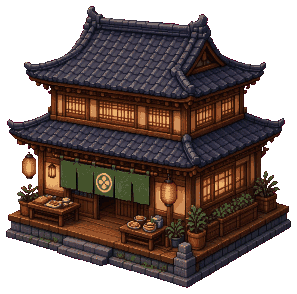
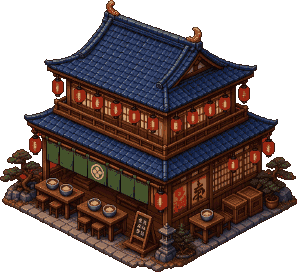
Round 5d: fix waiting-guest crash, diagnostics log, isometric redraw of teishoku/izakaya/gift/cafe

diff --git a/assets/lights.js b/assets/lights.js
@@ -1,2 +1,2 @@
 // tools/lights.py 생성: 스프라이트별 광원 점 (마스크는 assets/lights/*.png)
-window.LIGHTS={"gift_lv1": [[0.184, 0.29, 19.0], [0.258, 0.602, 8.0], [0.434, 0.611, 7.0], [0.648, 0.879, 7.0], [0.214, 0.432, 6.0], [0.42, 0.423, 5.0]], "gift_lv1_b": [[0.543, 0.547, 709.0], [0.197, 0.489, 570.0]], "gift_lv2": [[0.22, 0.538, 131.6], [0.677, 0.468, 115.4], [0.533, 0.762, 105.7], [0.445, 0.748, 83.3], [0.718, 0.765, 81.9], [0.247, 0.619, 43.4], [0.142, 0.227, 38.6]], "gift_lv3": [[0.141, 0.262, 147.0], [0.72, 0.769, 68.6], [0.14, 0.139, 22.8], [0.663, 0.482, 21.7], [0.412, 0.472, 19.6], [0.191, 0.424, 9.0]], "gift_lv4": [[0.127, 0.428, 1076.0], [0.128, 0.3, 7.0], [0.395, 0.075, 5.0], [0.081, 0.517, 5.0], [0.888, 0.637, 5.0]], "hinoki_lv1": [[0.154, 0.429, 40.6], [0.333, 0.497, 39.2], [0.518, 0.075, 24.5], [0.068, 0.261, 14.7], [0.539, 0.499, 14.0], [0.68, 0.149, 9.8], [0.222, 0.602, 9.1]], "hinoki_lv1_b": [[0.875, 0.443, 67.9], [0.681, 0.358, 10.5], [0.357, 0.698, 3.5], [0.542, 0.712, 3.5]], "hinoki_lv2": [[0.458, 0.389, 14.7], [0.547, 0.032, 11.9], [0.684, 0.089, 5.6], [0.14, 0.234, 5.6], [0.275, 0.623, 4.9], [0.58, 0.369, 4.2], [0.268, 0.455, 4.2]], "hinoki_lv2_b": [[0.552, 0.029, 5.6], [0.402, 0.384, 5.6]], "hinoki_lv3": [[0.402, 0.479, 18.9], [0.609, 0.606, 12.6], [0.794, 0.388, 9.1], [0.274, 0.46, 8.4], [0.389, 0.253, 6.3], [0.79, 0.503, 5.6], [0.497, 0.272, 4.9]], "hinoki_lv3_b": [[0.166, 0.424, 5.6], [0.555, 0.476, 4.2]], "izakaya_lv1": [[0.205, 0.628, 133.7], [0.429, 0.328, 64.4], [0.279, 0.326, 60.9], [0.577, 0.328, 60.2], [0.703, 0.677, 23.8], [0.103, 0.595, 9.8], [0.62, 0.771, 9.8]], "izakaya_lv1_b": [[0.457, 0.313, 177.8], [0.607, 0.312, 126.0], [0.223, 0.312, 60.2], [0.184, 0.625, 39.9]], "izakaya_lv2": [[0.188, 0.587, 156.8], [0.291, 0.319, 59.6], [0.628, 0.354, 58.9], [0.458, 0.337, 52.5], [0.428, 0.822, 27.3], [0.691, 0.672, 22.4], [0.56, 0.79, 21.7]], "izakaya_lv3": [[0.199, 0.288, 1453.2], [0.201, 0.508, 109.9], [0.547, 0.556, 109.1], [0.105, 0.491, 102.8], [0.619, 0.577, 102.0], [0.708, 0.582, 101.8], [0.826, 0.517, 97.4]], "izakaya_lv3_b": [[0.351, 0.59, 251.0], [0.275, 0.571, 174.0], [0.144, 0.535, 21.0], [0.459, 0.665, 19.0], [0.529, 0.694, 9.0], [0.18, 0.676, 5.0]], "izakaya_lv4": [[0.185, 0.623, 129.0], [0.273, 0.321, 118.0], [0.586, 0.67, 109.0], [0.593, 0.32, 44.9], [0.79, 0.29, 36.0], [0.857, 0.268, 34.7], [0.526, 0.608, 30.0]], "izakaya_lv4_b": [[0.327, 0.648, 448.0], [0.512, 0.38, 289.0], [0.518, 0.711, 261.0], [0.3, 0.324, 210.0], [0.161, 0.589, 136.0], [0.627, 0.375, 24.6], [0.236, 0.293, 20.3]], "izakaya_lv5": [[0.45, 0.328, 146.2], [0.573, 0.338, 138.3], [0.573, 0.632, 122.9], [0.403, 0.61, 118.7], [0.245, 0.591, 115.6], [0.235, 0.304, 115.2], [0.326, 0.599, 113.4]], "izakaya_lv5_b": [[0.44, 0.679, 937.0], [0.16, 0.631, 703.0], [0.489, 0.357, 644.0], [0.574, 0.703, 563.0], [0.23, 0.326, 485.0], [0.593, 0.369, 261.0], [0.782, 0.664, 14.0]], "ramen_lv5": [[0.471, 0.747, 107.0], [0.088, 0.596, 106.0], [0.582, 0.731, 92.0], [0.885, 0.597, 85.0], [0.656, 0.696, 77.0], [0.495, 0.472, 76.0], [0.23, 0.385, 74.0]], "room_lv1": [[0.484, 0.312, 49.7], [0.116, 0.596, 48.3], [0.529, 0.699, 48.3], [0.28, 0.568, 42.7], [0.342, 0.276, 37.1], [0.605, 0.616, 25.2], [0.289, 0.842, 13.3]], "room_lv1_b": [[0.208, 0.54, 13.3], [0.506, 0.665, 12.6], [0.681, 0.612, 7.7], [0.38, 0.246, 7.0], [0.168, 0.466, 7.0], [0.45, 0.607, 7.0]], "room_lv2": [[0.546, 0.638, 18.2], [0.549, 0.748, 18.2], [0.278, 0.539, 16.1], [0.633, 0.632, 16.1], [0.092, 0.572, 14.7], [0.396, 0.556, 10.5], [0.796, 0.565, 9.1]], "room_lv2_b": [[0.534, 0.671, 31.5], [0.782, 0.591, 7.7], [0.254, 0.557, 6.3], [0.183, 0.496, 5.6], [0.454, 0.636, 4.9], [0.69, 0.613, 3.5]], "room_lv3": [[0.53, 0.637, 59.5], [0.124, 0.595, 35.7], [0.611, 0.648, 28.7], [0.54, 0.751, 23.1], [0.278, 0.562, 18.2], [0.791, 0.575, 9.8], [0.4, 0.58, 7.0]], "room_lv3_b": [[0.489, 0.707, 85.4], [0.163, 0.528, 44.1], [0.219, 0.564, 42.7], [0.325, 0.626, 12.6], [0.798, 0.586, 10.5], [0.407, 0.646, 9.1]], "room_lv4": [[0.541, 0.734, 77.7], [0.49, 0.465, 29.4], [0.081, 0.635, 18.9], [0.55, 0.825, 16.8], [0.412, 0.253, 11.9], [0.288, 0.383, 11.9], [0.411, 0.433, 11.9]], "room_lv4_b": [[0.529, 0.757, 59.5], [0.536, 0.504, 35.0], [0.251, 0.368, 14.7], [0.151, 0.567, 11.2], [0.413, 0.254, 9.8], [0.307, 0.403, 8.4], [0.683, 0.685, 6.3]], "room_lv5": [[0.514, 0.738, 62.3], [0.468, 0.477, 24.5], [0.163, 0.749, 21.0], [0.351, 0.43, 11.2], [0.496, 0.916, 11.2], [0.656, 0.687, 9.1], [0.781, 0.395, 8.4]], "room_lv5_b": [[0.502, 0.499, 30.8], [0.451, 0.472, 14.7], [0.179, 0.574, 9.1], [0.155, 0.768, 9.1], [0.429, 0.703, 7.7], [0.481, 0.746, 7.0], [0.297, 0.399, 6.3]], "sauna_lv1": [[0.852, 0.658, 63.7], [0.481, 0.559, 40.6], [0.196, 0.461, 11.2], [0.778, 0.766, 10.5], [0.162, 0.639, 8.4], [0.191, 0.849, 4.9], [0.093, 0.697, 3.5]], "sauna_lv1_b": [[0.501, 0.633, 28.7], [0.098, 0.65, 11.9]], "sauna_lv2": [[0.874, 0.69, 98.7], [0.699, 0.04, 74.9], [0.482, 0.591, 58.1], [0.181, 0.495, 18.9], [0.067, 0.723, 17.5], [0.145, 0.671, 11.9], [0.346, 0.792, 5.6]], "sauna_lv2_b": [[0.281, 0.046, 86.8], [0.11, 0.705, 34.3]], "sauna_lv3": [[0.175, 0.685, 48.3], [0.716, 0.554, 26.6], [0.227, 0.453, 23.1], [0.606, 0.625, 5.6], [0.275, 0.646, 5.6], [0.68, 0.067, 4.9], [0.467, 0.757, 4.2]], "sauna_lv4": [[0.175, 0.683, 47.6], [0.175, 0.436, 25.2], [0.76, 0.543, 25.2], [0.79, 0.496, 14.0], [0.59, 0.595, 8.4], [0.077, 0.427, 7.0], [0.46, 0.749, 5.6]], "sauna_lv5": [[0.308, 0.499, 28.7], [0.706, 0.548, 28.7], [0.553, 0.605, 8.4], [0.12, 0.428, 7.0], [0.21, 0.686, 7.0], [0.262, 0.45, 4.2]], "teishoku_lv1": [[0.188, 0.544, 101.5], [0.8, 0.584, 67.9], [0.473, 0.463, 18.9], [0.893, 0.468, 13.3], [0.72, 0.712, 12.6], [0.32, 0.733, 9.8], [0.176, 0.694, 9.1]], "teishoku_lv1_b": [[0.279, 0.465, 19.6], [0.062, 0.492, 7.0]], "teishoku_lv5": [[0.174, 0.605, 106.1], [0.601, 0.677, 100.0], [0.094, 0.564, 89.7], [0.467, 0.398, 26.0], [0.532, 0.65, 22.7], [0.383, 0.381, 22.1], [0.129, 0.68, 18.0]], "teishoku_lv5_b": [[0.356, 0.638, 537.0], [0.565, 0.685, 431.0], [0.172, 0.595, 401.0], [0.557, 0.414, 353.0], [0.201, 0.352, 101.0], [0.345, 0.377, 84.0], [0.733, 0.372, 15.0]], "yuzu_lv3": [[0.612, 0.642, 78.0], [0.721, 0.545, 61.0], [0.774, 0.71, 55.0], [0.228, 0.555, 53.0], [0.301, 0.575, 35.0], [0.405, 0.66, 20.0], [0.569, 0.474, 17.0]], "yuzu_lv3_b": [[0.209, 0.563, 46.0], [0.312, 0.653, 42.0]], "yuzu_lv4": [[0.509, 0.525, 18.9], [0.127, 0.401, 17.5], [0.3, 0.554, 17.5], [0.636, 0.486, 16.8], [0.231, 0.528, 16.1], [0.427, 0.808, 8.4], [0.429, 0.645, 6.3]], "yuzu_lv4_b": [[0.103, 0.401, 16.8], [0.579, 0.534, 14.7], [0.867, 0.42, 14.0]], "yuzu_lv5": [[0.577, 0.73, 93.1], [0.275, 0.356, 89.6], [0.185, 0.628, 76.3], [0.571, 0.453, 74.2], [0.46, 0.41, 66.5], [0.688, 0.686, 41.3], [0.525, 0.769, 28.0]], "yuzu_lv5_b": [[0.557, 0.764, 191.8], [0.261, 0.354, 137.2], [0.569, 0.455, 136.5], [0.509, 0.428, 87.5], [0.17, 0.624, 76.3], [0.487, 0.713, 18.9], [0.726, 0.406, 17.5]]};
+window.LIGHTS={"gift_lv1": [[0.092, 0.39, 794.0], [0.139, 0.516, 7.0], [0.203, 0.609, 7.0], [0.044, 0.491, 5.0]], "gift_lv1_b": [[0.543, 0.547, 709.0], [0.197, 0.489, 570.0]], "gift_lv2": [[0.22, 0.538, 131.6], [0.677, 0.468, 115.4], [0.533, 0.762, 105.7], [0.445, 0.748, 83.3], [0.718, 0.765, 81.9], [0.247, 0.619, 43.4], [0.142, 0.227, 38.6]], "gift_lv3": [[0.141, 0.262, 147.0], [0.72, 0.769, 68.6], [0.14, 0.139, 22.8], [0.663, 0.482, 21.7], [0.412, 0.472, 19.6], [0.191, 0.424, 9.0]], "gift_lv4": [[0.127, 0.428, 1076.0], [0.128, 0.3, 7.0], [0.395, 0.075, 5.0], [0.081, 0.517, 5.0], [0.888, 0.637, 5.0]], "hinoki_lv1": [[0.154, 0.429, 40.6], [0.333, 0.497, 39.2], [0.518, 0.075, 24.5], [0.068, 0.261, 14.7], [0.539, 0.499, 14.0], [0.68, 0.149, 9.8], [0.222, 0.602, 9.1]], "hinoki_lv1_b": [[0.875, 0.443, 67.9], [0.681, 0.358, 10.5], [0.357, 0.698, 3.5], [0.542, 0.712, 3.5]], "hinoki_lv2": [[0.458, 0.389, 14.7], [0.547, 0.032, 11.9], [0.684, 0.089, 5.6], [0.14, 0.234, 5.6], [0.275, 0.623, 4.9], [0.58, 0.369, 4.2], [0.268, 0.455, 4.2]], "hinoki_lv2_b": [[0.552, 0.029, 5.6], [0.402, 0.384, 5.6]], "hinoki_lv3": [[0.402, 0.479, 18.9], [0.609, 0.606, 12.6], [0.794, 0.388, 9.1], [0.274, 0.46, 8.4], [0.389, 0.253, 6.3], [0.79, 0.503, 5.6], [0.497, 0.272, 4.9]], "hinoki_lv3_b": [[0.166, 0.424, 5.6], [0.555, 0.476, 4.2]], "izakaya_lv1": [[0.221, 0.548, 178.2], [0.431, 0.526, 172.6], [0.52, 0.558, 168.5], [0.339, 0.493, 162.1], [0.16, 0.429, 161.2], [0.545, 0.676, 109.2], [0.384, 0.616, 78.0]], "izakaya_lv1_b": [[0.457, 0.313, 177.8], [0.607, 0.312, 126.0], [0.223, 0.312, 60.2], [0.184, 0.625, 39.9]], "izakaya_lv2": [[0.4, 0.645, 168.0], [0.507, 0.603, 161.0], [0.233, 0.505, 160.0], [0.371, 0.552, 158.0], [0.704, 0.639, 117.0], [0.294, 0.603, 94.0], [0.56, 0.691, 62.0]], "izakaya_lv3": [[0.199, 0.288, 1453.2], [0.201, 0.508, 109.9], [0.547, 0.556, 109.1], [0.105, 0.491, 102.8], [0.619, 0.577, 102.0], [0.708, 0.582, 101.8], [0.826, 0.517, 97.4]], "izakaya_lv3_b": [[0.351, 0.59, 251.0], [0.275, 0.571, 174.0], [0.144, 0.535, 21.0], [0.459, 0.665, 19.0], [0.529, 0.694, 9.0], [0.18, 0.676, 5.0]], "izakaya_lv4": [[0.185, 0.623, 129.0], [0.273, 0.321, 118.0], [0.586, 0.67, 109.0], [0.593, 0.32, 44.9], [0.79, 0.29, 36.0], [0.857, 0.268, 34.7], [0.526, 0.608, 30.0]], "izakaya_lv4_b": [[0.327, 0.648, 448.0], [0.512, 0.38, 289.0], [0.518, 0.711, 261.0], [0.3, 0.324, 210.0], [0.161, 0.589, 136.0], [0.627, 0.375, 24.6], [0.236, 0.293, 20.3]], "izakaya_lv5": [[0.45, 0.328, 146.2], [0.573, 0.338, 138.3], [0.573, 0.632, 122.9], [0.403, 0.61, 118.7], [0.245, 0.591, 115.6], [0.235, 0.304, 115.2], [0.326, 0.599, 113.4]], "izakaya_lv5_b": [[0.44, 0.679, 937.0], [0.16, 0.631, 703.0], [0.489, 0.357, 644.0], [0.574, 0.703, 563.0], [0.23, 0.326, 485.0], [0.593, 0.369, 261.0], [0.782, 0.664, 14.0]], "ramen_lv5": [[0.471, 0.747, 107.0], [0.088, 0.596, 106.0], [0.582, 0.731, 92.0], [0.885, 0.597, 85.0], [0.656, 0.696, 77.0], [0.495, 0.472, 76.0], [0.23, 0.385, 74.0]], "room_lv1": [[0.484, 0.312, 49.7], [0.116, 0.596, 48.3], [0.529, 0.699, 48.3], [0.28, 0.568, 42.7], [0.342, 0.276, 37.1], [0.605, 0.616, 25.2], [0.289, 0.842, 13.3]], "room_lv1_b": [[0.208, 0.54, 13.3], [0.506, 0.665, 12.6], [0.681, 0.612, 7.7], [0.38, 0.246, 7.0], [0.168, 0.466, 7.0], [0.45, 0.607, 7.0]], "room_lv2": [[0.546, 0.638, 18.2], [0.549, 0.748, 18.2], [0.278, 0.539, 16.1], [0.633, 0.632, 16.1], [0.092, 0.572, 14.7], [0.396, 0.556, 10.5], [0.796, 0.565, 9.1]], "room_lv2_b": [[0.534, 0.671, 31.5], [0.782, 0.591, 7.7], [0.254, 0.557, 6.3], [0.183, 0.496, 5.6], [0.454, 0.636, 4.9], [0.69, 0.613, 3.5]], "room_lv3": [[0.53, 0.637, 59.5], [0.124, 0.595, 35.7], [0.611, 0.648, 28.7], [0.54, 0.751, 23.1], [0.278, 0.562, 18.2], [0.791, 0.575, 9.8], [0.4, 0.58, 7.0]], "room_lv3_b": [[0.489, 0.707, 85.4], [0.163, 0.528, 44.1], [0.219, 0.564, 42.7], [0.325, 0.626, 12.6], [0.798, 0.586, 10.5], [0.407, 0.646, 9.1]], "room_lv4": [[0.541, 0.734, 77.7], [0.49, 0.465, 29.4], [0.081, 0.635, 18.9], [0.55, 0.825, 16.8], [0.412, 0.253, 11.9], [0.288, 0.383, 11.9], [0.411, 0.433, 11.9]], "room_lv4_b": [[0.529, 0.757, 59.5], [0.536, 0.504, 35.0], [0.251, 0.368, 14.7], [0.151, 0.567, 11.2], [0.413, 0.254, 9.8], [0.307, 0.403, 8.4], [0.683, 0.685, 6.3]], "room_lv5": [[0.514, 0.738, 62.3], [0.468, 0.477, 24.5], [0.163, 0.749, 21.0], [0.351, 0.43, 11.2], [0.496, 0.916, 11.2], [0.656, 0.687, 9.1], [0.781, 0.395, 8.4]], "room_lv5_b": [[0.502, 0.499, 30.8], [0.451, 0.472, 14.7], [0.179, 0.574, 9.1], [0.155, 0.768, 9.1], [0.429, 0.703, 7.7], [0.481, 0.746, 7.0], [0.297, 0.399, 6.3]], "sauna_lv1": [[0.852, 0.658, 63.7], [0.481, 0.559, 40.6], [0.196, 0.461, 11.2], [0.778, 0.766, 10.5], [0.162, 0.639, 8.4], [0.191, 0.849, 4.9], [0.093, 0.697, 3.5]], "sauna_lv1_b": [[0.501, 0.633, 28.7], [0.098, 0.65, 11.9]], "sauna_lv2": [[0.874, 0.69, 98.7], [0.699, 0.04, 74.9], [0.482, 0.591, 58.1], [0.181, 0.495, 18.9], [0.067, 0.723, 17.5], [0.145, 0.671, 11.9], [0.346, 0.792, 5.6]], "sauna_lv2_b": [[0.281, 0.046, 86.8], [0.11, 0.705, 34.3]], "sauna_lv3": [[0.175, 0.685, 48.3], [0.716, 0.554, 26.6], [0.227, 0.453, 23.1], [0.606, 0.625, 5.6], [0.275, 0.646, 5.6], [0.68, 0.067, 4.9], [0.467, 0.757, 4.2]], "sauna_lv4": [[0.175, 0.683, 47.6], [0.175, 0.436, 25.2], [0.76, 0.543, 25.2], [0.79, 0.496, 14.0], [0.59, 0.595, 8.4], [0.077, 0.427, 7.0], [0.46, 0.749, 5.6]], "sauna_lv5": [[0.308, 0.499, 28.7], [0.706, 0.548, 28.7], [0.553, 0.605, 8.4], [0.12, 0.428, 7.0], [0.21, 0.686, 7.0], [0.262, 0.45, 4.2]], "teishoku_lv1": [[0.606, 0.615, 539.0], [0.887, 0.514, 42.0], [0.545, 0.672, 32.0], [0.256, 0.701, 32.0], [0.354, 0.737, 25.0], [0.609, 0.946, 21.0], [0.723, 0.758, 14.0]], "teishoku_lv1_b": [[0.279, 0.465, 19.6], [0.062, 0.492, 7.0]], "teishoku_lv2": [[0.578, 0.57, 470.0], [0.48, 0.207, 207.0], [0.888, 0.472, 44.0], [0.826, 0.656, 13.0], [0.21, 0.571, 12.0], [0.284, 0.609, 11.0], [0.436, 0.678, 9.0]], "teishoku_lv4": [[0.506, 0.712, 209.0], [0.098, 0.532, 187.0], [0.903, 0.529, 176.0], [0.191, 0.305, 158.0], [0.574, 0.68, 155.0], [0.818, 0.31, 149.0], [0.605, 0.398, 144.0]], "teishoku_lv5": [[0.662, 0.121, 28.0], [0.279, 0.806, 25.0], [0.136, 0.682, 24.0], [0.589, 0.728, 20.0], [0.244, 0.345, 19.0], [0.51, 0.726, 18.0], [0.558, 0.487, 17.0]], "teishoku_lv5_b": [[0.356, 0.638, 537.0], [0.565, 0.685, 431.0], [0.172, 0.595, 401.0], [0.557, 0.414, 353.0], [0.201, 0.352, 101.0], [0.345, 0.377, 84.0], [0.733, 0.372, 15.0]], "yuzu_lv3": [[0.612, 0.642, 78.0], [0.721, 0.545, 61.0], [0.774, 0.71, 55.0], [0.228, 0.555, 53.0], [0.301, 0.575, 35.0], [0.405, 0.66, 20.0], [0.569, 0.474, 17.0]], "yuzu_lv3_b": [[0.209, 0.563, 46.0], [0.312, 0.653, 42.0]], "yuzu_lv4": [[0.509, 0.525, 18.9], [0.127, 0.401, 17.5], [0.3, 0.554, 17.5], [0.636, 0.486, 16.8], [0.231, 0.528, 16.1], [0.427, 0.808, 8.4], [0.429, 0.645, 6.3]], "yuzu_lv4_b": [[0.103, 0.401, 16.8], [0.579, 0.534, 14.7], [0.867, 0.42, 14.0]], "yuzu_lv5": [[0.577, 0.73, 93.1], [0.275, 0.356, 89.6], [0.185, 0.628, 76.3], [0.571, 0.453, 74.2], [0.46, 0.41, 66.5], [0.688, 0.686, 41.3], [0.525, 0.769, 28.0]], "yuzu_lv5_b": [[0.557, 0.764, 191.8], [0.261, 0.354, 137.2], [0.569, 0.455, 136.5], [0.509, 0.428, 87.5], [0.17, 0.624, 76.3], [0.487, 0.713, 18.9], [0.726, 0.406, 17.5]]};

diff --git a/game.js b/game.js
@@ -298,7 +298,7 @@ function decide(g){
  const o=pickTarget(g);if(!o){if(NEEDK.every(k=>g.need[k]<35)||Math.random()<0.4){leave(g);return}
   for(let i=0;i<8;i++){const x=(Math.random()*N)|0,y=(Math.random()*N)|0;if(walkable(x,y)&&goTo(g,x,y))return}leave(g);return}
  const pp=pathToObj(g,o);if(pp)g.path=pp;if(!pp){if(!g.blocked)g.blocked=new Set();if(!g.blocked.size){think(g,'길이 막혔어요…');g.happy-=4}g.blocked.add(o);g.path=[];return}g.target=o;}
-function arrive(g){g.ax=g.x;g.ay=g.y;const o=g.target,d=DEF[o.k];g.target=null;o.users=o.users||0;
+function arrive(g){g.ax=g.x;g.ay=g.y;const o=g.target;if(!o||!DEF[o.k]){g.target=null;g.st='walk';if(_pb-->0)decide(g);return}const d=DEF[o.k];g.target=null;o.users=o.users||0;
  if(!S.objs.includes(o)){decide(g);return}
  const cap=capOf(o);if(o.users>=cap){if(!g.waited){g.waited=1;if(Math.random()<0.5)think(g,'자리가 날 때까지 기다릴게요');g.st='wait';g.t=5;g.target=o;return}g.waited=0;think(g,'자리가 없네…');g.happy-=3;(g.used=g.used||[]).push(o);return}
  const fair=fairPrice(o)*(0.8+g.happy/150);
@@ -352,7 +352,7 @@ function emit(dt){if(parts.length>(window.GFX_LOW?140:600))return;if(window.GFX_
  if(season()==3&&Math.random()<dt*6){const r=rng(Date.now()|0);parts.push({k:'snow',x:Math.random()*N,y:Math.random()*N,h:60,l:8,L:8,ph:Math.random()*6})}
 }
 function updParts(dt){for(const o of S.objs)if(o.sway)o.sway=Math.max(0,o.sway-dt*0.35);for(const p of parts){p.l-=dt;if(p.k=='spark'){p.h+=p.vh*dt;p.vh*=0.96;continue}if(p.k=='dust'){p.x+=p.vx*dt;p.y+=p.vy*dt;p.vx*=0.92;p.vy*=0.92;continue}if(p.k=='steam'){p.h+=dt*9;p.x+=(p.vx+(window.WIND||0)*0.12)*dt;p.y-=(window.WIND||0)*0.06*dt;p.s+=dt*2.5}else{if(p.h>0){p.h-=dt*(p.k=='snow'?6:8);p.ph+=dt*2;p.x+=Math.sin(p.ph)*dt*0.25+dt*0.12}else{p.h=0;p.l=Math.min(p.l,1.5)}}}
- parts=parts.filter(p=>p.l>0);floats.forEach(f=>f.l-=dt);floats=floats.filter(f=>f.l>0);bubbles.forEach(b=>b.l-=dt);bubbles=bubbles.filter(b=>b.l>0&&!b.g.dead&&!b.g.hide);
+ parts=parts.filter(p=>p.l>0);if(parts.length>900)parts.splice(0,parts.length-900);floats.forEach(f=>f.l-=dt);floats=floats.filter(f=>f.l>0);bubbles.forEach(b=>b.l-=dt);bubbles=bubbles.filter(b=>b.l>0&&!b.g.dead&&!b.g.hide);
  for(const k in anims){anims[k].t+=dt;if(anims[k].t>1.6)delete anims[k]}}
 // ===== 렌더 =====
 let ghost=null,hoverT=null,mode=null;
@@ -697,7 +697,7 @@ function checkReach(){const gi=gateInfo();const w=$('warn');if(!gi){w.style.disp
  while(q.length){const[x,y]=q.shift();for(const[dx,dy]of[[1,0],[-1,0],[0,1],[0,-1]]){const k=(x+dx)+','+(y+dy);if(seen.has(k)||!walkable(x+dx,y+dy))continue;seen.add(k);q.push([x+dx,y+dy])}}
  const bad=S.objs.filter(o=>DEF[o.k].price&&o!==moving).filter(o=>{const t=[];for(const[x,y]of tilesOf(o))for(const[dx,dy]of[[1,0],[-1,0],[0,1],[0,-1]])t.push((x+dx)+','+(y+dy));return !t.some(k=>seen.has(k))});
  if(bad.length){w.textContent='⚠ 대문에서 갈 수 없는 시설: '+[...new Set(bad.map(o=>DEF[o.k].n))].join(', ');w.style.display='block'}else w.style.display='none'}
-let _ferr=0,_pb=8;function frame(now){_pb=8;try{frame_(now)}catch(e){if(_ferr++<5)console.error('frame error',e)}requestAnimationFrame(frame)}
+let _ferr=0,_pb=8;function frame(now){_pb=8;try{frame_(now)}catch(e){if(_ferr++<5)console.error('frame error',e);if(window.DIAG&&_ferr<50)DIAG.log('frame',e.message,{stack:(e.stack||'').slice(0,600)})}requestAnimationFrame(frame)}
 function frame_(now){warnAcc+=1;if(warnAcc%90==1)checkReach();const dt=Math.min(0.1,(now-last)/1000||0);last=now;
  if(!paused&&!window.READONLY)for(let i=0;i<speed;i++)step(dt);else if(window.READONLY&&!paused)step(dt);
  if(Math.abs(cam.tz-cam.z)>0.001){const z=cam.z+(cam.tz-cam.z)*Math.min(1,dt*10);const p=zoomTarget||[VW/2,VH/2];zoomAt(p[0],p[1],z)}

diff --git a/tools/soak.js b/tools/soak.js
@@ -1,0 +1,28 @@
+// 장시간 소크 테스트: 모바일 뷰포트 + CPU 4x 스로틀 + x10 속도 + 무작위 조작, 1분마다 자원 계측
+const {chromium}=require('playwright');const MIN=+process.env.MIN||120;const URL=process.env.URL||'http://localhost:8765/index.html?notitle';
+(async()=>{const b=await chromium.launch({args:['--enable-precise-memory-info','--autoplay-policy=no-user-gesture-required']});
+const ctx=await b.newContext({viewport:{width:390,height:844},deviceScaleFactor:2,isMobile:true,hasTouch:true});const p=await ctx.newPage();const errs=[];
+p.on('pageerror',e=>errs.push(e.message));p.on('console',m=>{if(m.type()=='error'&&errs.length<200)errs.push(m.text())});p.on('crash',()=>{console.log('PAGE CRASH');process.exit(2)});
+const cdp=await ctx.newCDPSession(p);await cdp.send('Emulation.setCPUThrottlingRate',{rate:4});
+await p.goto(URL);await p.waitForFunction(()=>window.__ready,null,{timeout:120000});await p.mouse.click(200,400);
+await p.evaluate(()=>{const D=__dbg,S=D.S;S.yen=1e9;speed=10;window.__acts={};
+ const KS=Object.keys(D.DEF).filter(k=>{const d=D.DEF[k];return d.cost&&!d.isPath&&!d.erase&&k!='gate'});
+ window.__act=()=>{const r=Math.random(),fs=S.objs.filter(o=>!D.DEF[o.k].isPath&&o.k!='gate');let a;try{
+  if(r<0.25||fs.length<6){a='build';const k=KS[Math.random()*KS.length|0];const g=D.gate();const xy=D.free(k,g.x+((Math.random()*20)|0)-10,g.y+((Math.random()*20)|0)-10);if(xy){const o={k,x:xy[0],y:xy[1],lv:1,rot:Math.random()*2|0,price:D.DEF[k].price||0,uses:0,earn:0};S.objs.push(o);D.occ();if(!D.reachOK()){S.objs.pop();D.occ()}else D.emit('build',o)}}
+  else if(r<0.4){a='rotate';rotateObj(fs[Math.random()*fs.length|0])}
+  else if(r<0.5){a='move';const o=fs[Math.random()*fs.length|0];startMove(o);const xy=D.free(o.k,o.x+3,o.y+2);if(xy)dropMove(xy[0],xy[1]);else cancelMove()}
+  else if(r<0.62){a='upgrade';const o=fs.find(o=>D.DEF[o.k].price&&o.lv<5);if(o){o.lv++;o.build={t:0};D.emit('upgrade',o)}}
+  else if(r<0.7){a='demolish';if(fs.length>12)remove(fs[Math.random()*fs.length|0])}
+  else if(r<0.76){a='zen';document.body.classList.toggle('zen')}
+  else if(r<0.8){a='photo';const b=document.getElementById('tPhoto')||document.querySelector('[data-t=photo]');b&&b.click();setTimeout(()=>document.dispatchEvent(new KeyboardEvent('keydown',{key:'Escape'})),300)}
+  else if(r<0.88){a='hour';D.setHour(Math.random()*24)}
+  else if(r<0.94){a='info';const o=fs[Math.random()*fs.length|0];o&&showInfo&&showInfo(o)}
+  else {a='pan';__dbg.focusXY(10+Math.random()*30,10+Math.random()*30,0.6+Math.random()*4)}
+ }catch(e){a='ERR:'+a+':'+e.message}__acts[a]=(__acts[a]||0)+1};
+ setInterval(()=>{for(let i=0;i<3;i++)__act()},1000)});
+const m=async()=>p.evaluate(()=>{const s=DIAG.stats();const au=SND._bgm?SND._bgm():null;return{...s,parts:typeof parts!='undefined'?parts.length:null,audioEls:document.getElementsByTagName('audio').length+(au?au.players.filter(Boolean).length:0),served:__dbg.S.stats?__dbg.S.stats.served:null,longFrames:s.long}});
+const t0=Date.now();const rows=[];
+for(let i=0;;i++){const r=await Promise.race([m(),new Promise(r=>setTimeout(()=>r('HANG'),60000))]);const min=((Date.now()-t0)/60000).toFixed(1);console.log(min,JSON.stringify(r));rows.push(r);if(r=='HANG'){console.log('HANG detected');break}
+ if(Date.now()-t0>MIN*60000)break;await p.waitForTimeout(60000)}
+console.log('acts',JSON.stringify(await p.evaluate(()=>__acts)));console.log('diag',await p.evaluate(()=>JSON.stringify(JSON.parse(DIAG.text()).log.filter(x=>x.type!='stats'&&x.type!='boot').slice(-20))));
+console.log('ERR',errs.length,JSON.stringify([...new Set(errs)].slice(0,15)));await b.close()})();

diff --git a/diag.js b/diag.js
@@ -1,0 +1,18 @@
+'use strict';
+// ===== 충돌 진단: 오류/캔버스 실패/긴 프레임/주기 통계 → localStorage 링버퍼 =====
+(()=>{const KEY='onsenDiag',MAX=150;let buf=[];try{buf=JSON.parse(localStorage[KEY]||'[]')}catch(e){buf=[]}
+ let dirty=false;const log=(type,msg,extra)=>{buf.push({t:new Date().toISOString(),type,msg:String(msg).slice(0,400),...(extra||{})});if(buf.length>MAX)buf.splice(0,buf.length-MAX);dirty=true};
+ const flush=()=>{if(!dirty)return;dirty=false;try{localStorage[KEY]=JSON.stringify(buf)}catch(e){buf.splice(0,buf.length>>1)}};setInterval(flush,3000);addEventListener('pagehide',flush);
+ addEventListener('error',e=>log('error',e.message,{src:(e.filename||'').split('/').pop()+':'+e.lineno+':'+e.colno,stack:(e.error&&e.error.stack||'').slice(0,600)}));
+ addEventListener('unhandledrejection',e=>log('reject',e.reason&&(e.reason.message||e.reason),{stack:(e.reason&&e.reason.stack||'').slice(0,600)}));
+ // 캔버스 생성/컨텍스트 실패 감지 + 살아있는 캔버스 수 집계
+ const live=new Set();const reg=typeof FinalizationRegistry!='undefined'?new FinalizationRegistry(id=>live.delete(id)):null;let cid=0;
+ const oc=Document.prototype.createElement;Document.prototype.createElement=function(t,o){const e=oc.call(this,t,o);if(reg&&String(t).toLowerCase()=='canvas'){const id=++cid;live.add(id);reg.register(e,id)}return e};
+ const gc=HTMLCanvasElement.prototype.getContext;HTMLCanvasElement.prototype.getContext=function(type,o){const c=gc.call(this,type,o);if(!c)log('canvas','getContext 실패',{w:this.width,h:this.height,live:live.size});return c};
+ addEventListener('webglcontextlost',e=>log('ctxlost','context lost'),true);
+ // 긴 프레임 감시
+ let last=performance.now(),longN=0;const wd=()=>{const n=performance.now(),d=n-last;last=n;if(d>1500&&!document.hidden){longN++;log('longframe',Math.round(d)+'ms')}requestAnimationFrame(wd)};requestAnimationFrame(wd);
+ const stats=()=>{const m=performance.memory;return{canv:live.size,heapMB:m?Math.round(m.usedJSHeapSize/1e6):null,dom:document.getElementsByTagName('*').length,guests:window.__dbg&&__dbg.guests?__dbg.guests().length:null,objs:window.__dbg?__dbg.S.objs.length:null,long:longN}};
+ setInterval(()=>log('stats','',stats()),120000);log('boot',navigator.userAgent.slice(0,160),{dpr:devicePixelRatio,vw:innerWidth,vh:innerHeight});
+ window.DIAG={log,stats,text:()=>JSON.stringify({ver:document.querySelector('meta[name=ver]')?.content,now:new Date().toISOString(),stats:stats(),log:buf},null,1),clear(){buf=[];dirty=true;flush()}};
+})();

diff --git a/shell.js b/shell.js
@@ -26,7 +26,9 @@ const SHELL=(()=>{
    <h3>${T('gfx')}</h3><div class="seg" data-k="gfx">${['auto','high','low'].map(g=>`<button data-g="${g}" class="${SET.gfx==g?'on':''}">${T(g)}</button>`).join('')}</div>
    <h3>${T('lang')}</h3><div class="seg" data-k="lang"><button data-l="ko" class="${SET.lang=='ko'?'on':''}">한국어</button><button data-l="en" class="${SET.lang=='en'?'on':''}">English (menus)</button></div>
    <label class="row chk"><span>${T('fps')}</span><input type="checkbox" ${SET.fps?'checked':''} id="sFps"></label>
+   <h3>진단</h3><div class="btns"><button class="mb sm" id="sDiag">오류 로그 복사</button></div>
    <div class="btns"><button class="mb" data-x>${T('close')}</button></div>`);
+  o.querySelector('#sDiag').onclick=async()=>{const t=window.DIAG?DIAG.text():'';try{await navigator.clipboard.writeText(t);toast('오류 로그를 복사했어요. 그대로 붙여넣어 보내주세요')}catch(e){const ta=document.createElement('textarea');ta.value=t;document.body.appendChild(ta);ta.select();try{document.execCommand('copy');toast('오류 로그를 복사했어요')}catch(_){prompt('아래 내용을 복사하세요',t.slice(0,5000))}ta.remove()}};
   o.querySelectorAll('input[data-v]').forEach(i=>i.oninput=()=>{v[i.dataset.v]=+i.value;saveSet();SND.applyVol&&SND.applyVol()});
   o.querySelectorAll('[data-g]').forEach(b=>b.onclick=()=>{SET.gfx=b.dataset.g;if(SET.gfx!='auto'){autoLow=false;localStorage.onsenAutoLow='0'}saveSet();applyGfx();settings()});
   o.querySelectorAll('[data-l]').forEach(b=>b.onclick=()=>{SET.lang=b.dataset.l;saveSet();settings();refreshTexts()});

diff --git a/tools/contact.js b/tools/contact.js
@@ -1,0 +1,10 @@
+// 모든 설치물 rot0 접촉 시트 (게임 내 렌더, Lv1 / Lv5)
+const {chromium}=require('playwright');
+(async()=>{const b=await chromium.launch();const p=await b.newPage({viewport:{width:1800,height:1100}});const errs=[];p.on('pageerror',e=>errs.push(e.message));
+await p.goto('http://localhost:8765/index.html?notitle');await p.waitForFunction(()=>window.__ready);
+for(const lv of [1,3,5]){const n=await p.evaluate(lv=>{const D=__dbg,S=D.S;S.objs=S.objs.filter(o=>o.k=='gate');D.guests().length=0;for(const k in S.plots)delete S.plots[k];for(let a=0;a<4;a++)for(let c=0;c<4;c++)S.plots[a+','+c]=1;
+ const ks=Object.keys(D.DEF).filter(k=>{const d=D.DEF[k];return !d.isPath&&!d.erase&&k!='gate'&&(lv==1||d.price)});let x=2,y=2,row=0;
+ for(const k of ks){const f=D.DEF[k].fp;if(x+f>60){x=2;y+=row+2;row=0}S.objs.push({k,x,y,lv,rot:0,price:D.DEF[k].price||0,uses:0,earn:0,pic:''});x+=f+2;row=Math.max(row,f)}
+ D.occ();document.body.classList.add('zen');D.setHour(12);D.focusXY(31,y/2+2,Math.min(1.7,1100/((y+6)*32)));return ks.length},lv);
+ await p.waitForTimeout(900);await p.screenshot({path:`shots/r5/contact_rot0_lv${lv}.png`});console.log(lv,n)}
+console.log('ERR',JSON.stringify(errs));await b.close()})();

diff --git a/index.html b/index.html
@@ -34,6 +34,7 @@
 <div id="toast"></div>
 <div id="warn"></div>
 <button id="ghRot" class="box" style="display:none;position:fixed;left:50%;bottom:92px;transform:translateX(-50%);z-index:6;padding:6px 14px;font-weight:700">회전 (R)</button><div id="moveBar" class="box"><span>🔀 이동 중 — 놓을 곳을 눌러주세요</span><button id="mvRot" title="회전 (R)">회전 R</button><button id="mvCancel">취소</button></div>
+<script src="diag.js"></script>
 <script src="assets/icons.js"></script>
 <script src="save.js"></script>
 <script src="assets/water.js"></script><script src="assets/lights.js"></script>

diff --git a/tools/lights.py b/tools/lights.py
@@ -8,6 +8,7 @@ for p in sorted(glob.glob('assets/*_lv[1-5]*.png')):
     if k.startswith('milk_'):continue
     a=np.asarray(Image.open(p).convert('RGBA')).astype(int);r,g,b,al=[a[...,i] for i in range(4)];op=al>200
     lan=op&(r>185)&(r-g>70)&(g>60)&(b<130)
+    if not lan.any() and k.split('_')[0] in ('teishoku','izakaya') and not k.endswith('_b'): lan=op&(r>150)&(r-g>55)&(b<120)  # 어두운 등롱 팔레트용 완화 기준
     win=op&(r>200)&(g>165)&(b>100)&(b<200)&(r-b>55)&(g-b>25)
     fl=op&(r>235)&(g>220)&(b<190)
     H,W=op.shape;area=H*W;m=np.zeros((H,W),float)

diff --git a/CHANGELOG.md b/CHANGELOG.md
@@ -151,3 +151,9 @@
 - 프레임 루프 try/catch, 회전 실패 시 원복, 프레임당 경로 재계산 상한.
 - BGM: 직접 만든 3곡 플레이리스트(1→2→3 반복, 3초 크로스페이드, 2·3곡 지연 로드, 128kbps), 절차 멜로디 제거, 환경음 낮춤, 탭 숨김 시 음소거.
 - tools/sim.js 복구(60시간 + 무작위 회전).
+
+## Round 5d
+- 크래시 근본 원인: 손님이 '자리가 날 때까지 기다리는' 중에 그 시설을 이동/철거하면 target=null → arrive()에서 TypeError → 게임 루프 정지. 수정 + 루프 보호.
+- 진단: diag.js (오류/거부된 Promise/캔버스 getContext 실패/컨텍스트 손실/긴 프레임/2분 통계 → localStorage 링버퍼 150개), 설정 > '오류 로그 복사'.
+- 파티클 전역 상한 900.
+- 정식당 Lv1-5, 이자카야 Lv1-2, 기념품점 Lv1, 카페를 다른 시설과 같은 45° 아이소메트릭 시점으로 다시 그림 (조명 마스크 재생성). 접촉 시트 tools/contact.js.
